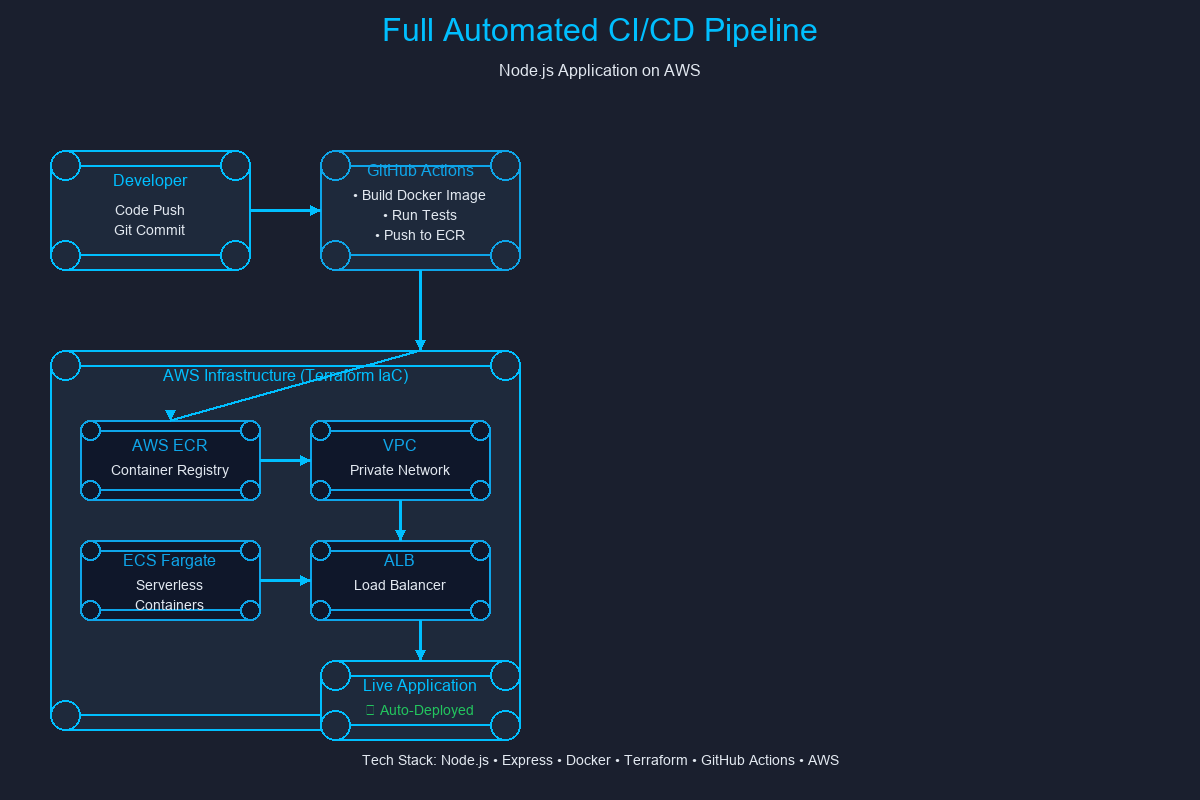
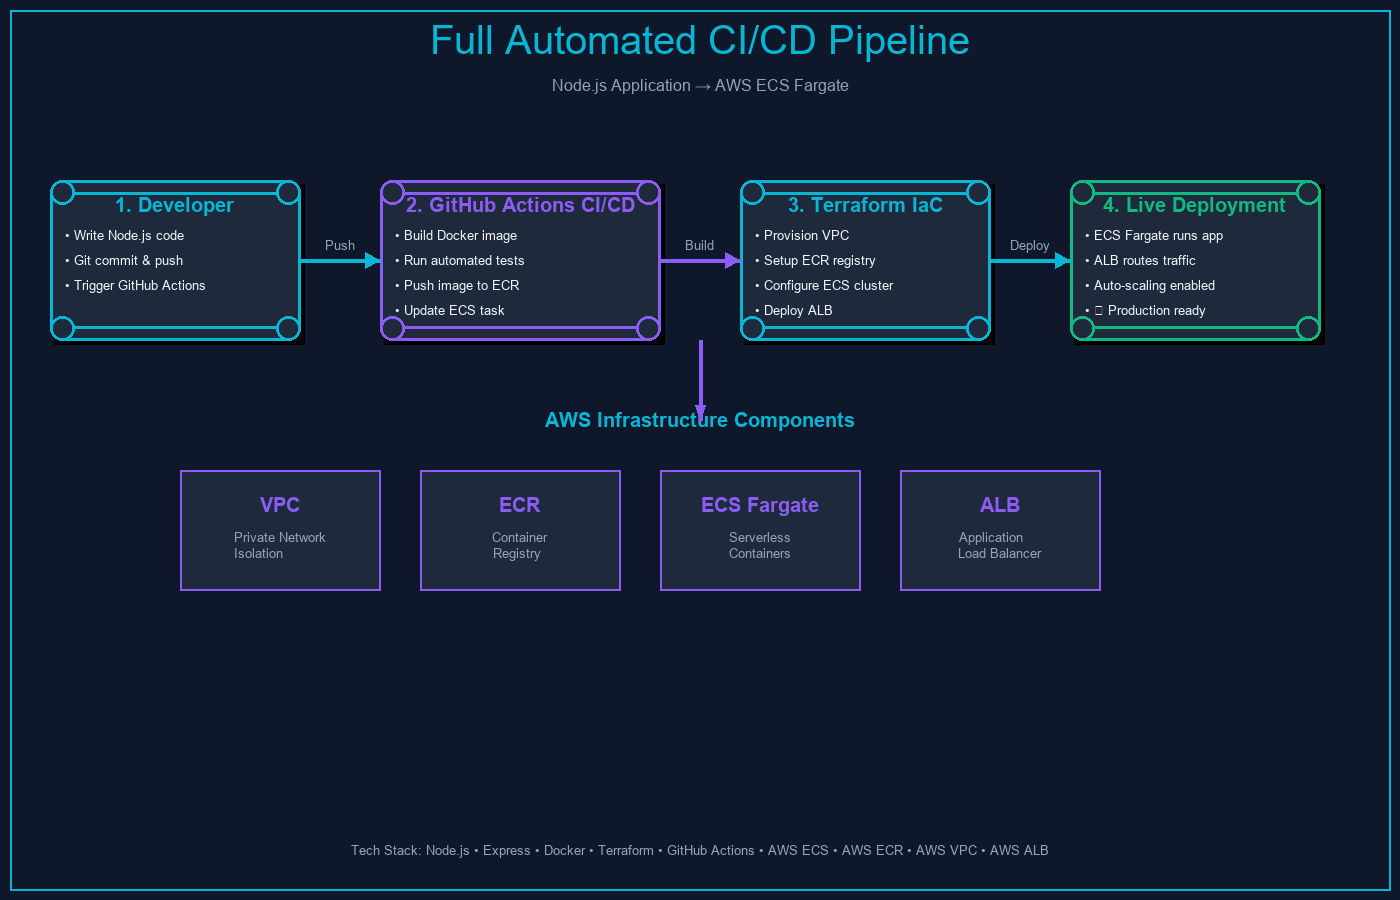
Redesign CI/CD workflow diagram with professional layout and enhanced visuals

diff --git a/generate_cicd_diagram.py b/generate_cicd_diagram.py
@@ -1,108 +1,138 @@
 from PIL import Image, ImageDraw, ImageFont
 import os
 
-# Create image
-width, height = 1200, 800
-img = Image.new('RGB', (width, height), color='#1a1f2e')
+# Create image with better dimensions for workflow
+width, height = 1400, 900
+img = Image.new('RGB', (width, height), color='#0f172a')
 draw = ImageDraw.Draw(img)
 
-# Colors
-bg_dark = '#1a1f2e'
-primary = '#00bfff'
-secondary = '#1e293b'
-text_color = '#e2e8f0'
-accent = '#0ea5e9'
+# Modern color scheme
+bg_dark = '#0f172a'
+bg_card = '#1e293b'
+primary = '#06b6d4'
+accent = '#8b5cf6'
+success = '#10b981'
+text_color = '#f1f5f9'
+text_muted = '#94a3b8'
 
-# Draw title
+# Load fonts
 try:
-    title_font = ImageFont.truetype("arial.ttf", 32)
+    title_font = ImageFont.truetype("arial.ttf", 40)
+    heading_font = ImageFont.truetype("arialbd.ttf", 20)
     text_font = ImageFont.truetype("arial.ttf", 16)
-    small_font = ImageFont.truetype("arial.ttf", 14)
+    small_font = ImageFont.truetype("arial.ttf", 13)
 except:
     title_font = ImageFont.load_default()
+    heading_font = ImageFont.load_default()
     text_font = ImageFont.load_default()
     small_font = ImageFont.load_default()
 
-# Title
-draw.text((600, 30), "Full Automated CI/CD Pipeline", fill=primary, font=title_font, anchor="mm")
-draw.text((600, 70), "Node.js Application on AWS", fill=text_color, font=text_font, anchor="mm")
+# Title with gradient effect
+draw.text((700, 40), "Full Automated CI/CD Pipeline", fill=primary, font=title_font, anchor="mm")
+draw.text((700, 85), "Node.js Application → AWS ECS Fargate", fill=text_muted, font=text_font, anchor="mm")
 
-# Draw boxes with labels
-def draw_rounded_rect(x, y, w, h, r, fill, outline):
-    draw.rectangle([x+r, y, x+w-r, y+h], fill=fill, outline=outline, width=2)
-    draw.rectangle([x, y+r, x+w, y+h-r], fill=fill, outline=outline, width=2)
-    draw.ellipse([x, y, x+2*r, y+2*r], fill=fill, outline=outline, width=2)
-    draw.ellipse([x+w-2*r, y, x+w, y+2*r], fill=fill, outline=outline, width=2)
-    draw.ellipse([x, y+h-2*r, x+2*r, y+h], fill=fill, outline=outline, width=2)
-    draw.ellipse([x+w-2*r, y+h-2*r, x+w, y+h], fill=fill, outline=outline, width=2)
+# Enhanced rounded rectangle with shadow
+def draw_card(x, y, w, h, r, fill, outline, title, items=None):
+    # Shadow effect
+    shadow_offset = 4
+    draw.rectangle([x+shadow_offset, y+shadow_offset, x+w+shadow_offset, y+h+shadow_offset], 
+                   fill='#00000050')
+    
+    # Main card
+    draw.rectangle([x+r, y, x+w-r, y+h], fill=fill, outline=outline, width=3)
+    draw.rectangle([x, y+r, x+w, y+h-r], fill=fill, outline=outline, width=3)
+    draw.ellipse([x, y, x+2*r, y+2*r], fill=fill, outline=outline, width=3)
+    draw.ellipse([x+w-2*r, y, x+w, y+2*r], fill=fill, outline=outline, width=3)
+    draw.ellipse([x, y+h-2*r, x+2*r, y+h], fill=fill, outline=outline, width=3)
+    draw.ellipse([x+w-2*r, y+h-2*r, x+w, y+h], fill=fill, outline=outline, width=3)
+    
+    # Title
+    draw.text((x+w//2, y+25), title, fill=outline, font=heading_font, anchor="mm")
+    
+    # Items
+    if items:
+        y_offset = y + 55
+        for item in items:
+            draw.text((x+15, y_offset), f"• {item}", fill=text_color, font=small_font, anchor="lm")
+            y_offset += 25
 
-# Stage 1: Developer
-draw_rounded_rect(50, 150, 200, 120, 15, secondary, primary)
-draw.text((150, 180), "Developer", fill=primary, font=text_font, anchor="mm")
-draw.text((150, 210), "Code Push", fill=text_color, font=small_font, anchor="mm")
-draw.text((150, 230), "Git Commit", fill=text_color, font=small_font, anchor="mm")
+# Workflow stages - horizontal flow
+stage_y = 180
 
-# Stage 2: GitHub Actions
-draw_rounded_rect(320, 150, 200, 120, 15, secondary, accent)
-draw.text((420, 170), "GitHub Actions", fill=accent, font=text_font, anchor="mm")
-draw.text((420, 195), "• Build Docker Image", fill=text_color, font=small_font, anchor="mm")
-draw.text((420, 215), "• Run Tests", fill=text_color, font=small_font, anchor="mm")
-draw.text((420, 235), "• Push to ECR", fill=text_color, font=small_font, anchor="mm")
+# Stage 1: Code & Commit
+draw_card(50, stage_y, 250, 160, 12, bg_card, primary, "1. Developer",
+          ["Write Node.js code", "Git commit & push", "Trigger GitHub Actions"])
+
+# Stage 2: Build & Test
+draw_card(380, stage_y, 280, 160, 12, bg_card, accent, "2. GitHub Actions CI/CD",
+          ["Build Docker image", "Run automated tests", "Push image to ECR", "Update ECS task"])
 
 # Stage 3: AWS Infrastructure
-draw_rounded_rect(50, 350, 470, 380, 15, secondary, primary)
-draw.text((285, 375), "AWS Infrastructure (Terraform IaC)", fill=primary, font=text_font, anchor="mm")
-
-# ECR
-draw_rounded_rect(80, 420, 180, 80, 10, '#0f172a', accent)
-draw.text((170, 445), "AWS ECR", fill=accent, font=text_font, anchor="mm")
-draw.text((170, 470), "Container Registry", fill=text_color, font=small_font, anchor="mm")
-
-# VPC
-draw_rounded_rect(310, 420, 180, 80, 10, '#0f172a', accent)
-draw.text((400, 445), "VPC", fill=accent, font=text_font, anchor="mm")
-draw.text((400, 470), "Private Network", fill=text_color, font=small_font, anchor="mm")
-
-# ECS Fargate
-draw_rounded_rect(80, 540, 180, 80, 10, '#0f172a', accent)
-draw.text((170, 560), "ECS Fargate", fill=accent, font=text_font, anchor="mm")
-draw.text((170, 585), "Serverless", fill=text_color, font=small_font, anchor="mm")
-draw.text((170, 605), "Containers", fill=text_color, font=small_font, anchor="mm")
-
-# ALB
-draw_rounded_rect(310, 540, 180, 80, 10, '#0f172a', accent)
-draw.text((400, 560), "ALB", fill=accent, font=text_font, anchor="mm")
-draw.text((400, 585), "Load Balancer", fill=text_color, font=small_font, anchor="mm")
+draw_card(740, stage_y, 250, 160, 12, bg_card, primary, "3. Terraform IaC",
+          ["Provision VPC", "Setup ECR registry", "Configure ECS cluster", "Deploy ALB"])
 
 # Stage 4: Deployment
-draw_rounded_rect(320, 660, 200, 80, 15, secondary, primary)
-draw.text((420, 685), "Live Application", fill=primary, font=text_font, anchor="mm")
-draw.text((420, 710), "✓ Auto-Deployed", fill='#22c55e', font=small_font, anchor="mm")
+draw_card(1070, stage_y, 250, 160, 12, bg_card, success, "4. Live Deployment",
+          ["ECS Fargate runs app", "ALB routes traffic", "Auto-scaling enabled", "✓ Production ready"])
 
-# Draw arrows
-def draw_arrow(x1, y1, x2, y2, color=primary):
-    draw.line([(x1, y1), (x2, y2)], fill=color, width=3)
+# AWS Services section
+aws_y = 420
+draw.text((700, aws_y), "AWS Infrastructure Components", fill=primary, font=heading_font, anchor="mm")
+
+# AWS service boxes - 2 rows
+services = [
+    ("VPC", "Private Network\nIsolation", 180, 470),
+    ("ECR", "Container\nRegistry", 420, 470),
+    ("ECS Fargate", "Serverless\nContainers", 660, 470),
+    ("ALB", "Application\nLoad Balancer", 900, 470),
+]
+
+for name, desc, x, y in services:
+    # Service box
+    draw.rectangle([x, y, x+200, y+120], fill='#1e293b', outline=accent, width=2)
+    draw.text((x+100, y+35), name, fill=accent, font=heading_font, anchor="mm")
+    draw.text((x+100, y+75), desc, fill=text_muted, font=small_font, anchor="mm")
+
+# Enhanced arrow with gradient effect
+def draw_workflow_arrow(x1, y1, x2, y2, color=primary, label=""):
+    # Main line
+    draw.line([(x1, y1), (x2, y2)], fill=color, width=4)
+    
     # Arrowhead
-    if x2 > x1:
-        draw.polygon([(x2, y2), (x2-10, y2-5), (x2-10, y2+5)], fill=color)
-    elif y2 > y1:
-        draw.polygon([(x2, y2), (x2-5, y2-10), (x2+5, y2-10)], fill=color)
+    arrow_size = 15
+    if x2 > x1:  # Right arrow
+        draw.polygon([(x2, y2), (x2-arrow_size, y2-8), (x2-arrow_size, y2+8)], fill=color)
+    
+    # Label
+    if label:
+        mid_x, mid_y = (x1 + x2) // 2, (y1 + y2) // 2 - 15
+        draw.text((mid_x, mid_y), label, fill=text_muted, font=small_font, anchor="mm")
 
-# Arrows connecting stages
-draw_arrow(250, 210, 320, 210)  # Developer to GitHub Actions
-draw_arrow(420, 270, 420, 350)  # GitHub Actions to AWS
-draw_arrow(420, 350, 170, 420)  # To ECR
-draw_arrow(260, 460, 310, 460)  # ECR to VPC
-draw_arrow(400, 500, 400, 540)  # VPC to ALB
-draw_arrow(260, 580, 310, 580)  # Fargate to ALB
-draw_arrow(420, 620, 420, 660)  # ALB to Deployment
+# Workflow arrows with labels
+draw_workflow_arrow(300, 260, 380, 260, primary, "Push")
+draw_workflow_arrow(660, 260, 740, 260, accent, "Build")
+draw_workflow_arrow(990, 260, 1070, 260, primary, "Deploy")
 
-# Tech stack labels at bottom
-draw.text((600, 760), "Tech Stack: Node.js • Express • Docker • Terraform • GitHub Actions • AWS", 
-          fill=text_color, font=small_font, anchor="mm")
+# Connection from workflow to AWS services
+draw.line([(700, 340), (700, 420)], fill=accent, width=4)
+draw.polygon([(700, 420), (695, 405), (705, 405)], fill=accent)
+
+# Tech stack footer
+footer_y = 850
+tech_items = [
+    "Node.js", "Express", "Docker", "Terraform", 
+    "GitHub Actions", "AWS ECS", "AWS ECR", "AWS VPC", "AWS ALB"
+]
+tech_text = " • ".join(tech_items)
+draw.text((700, footer_y), f"Tech Stack: {tech_text}", 
+          fill=text_muted, font=small_font, anchor="mm")
+
+# Border frame
+draw.rectangle([10, 10, width-10, height-10], outline=primary, width=2)
 
 # Save
 output_path = os.path.join('public', 'projects', 'nodejs-cicd-pipeline.png')
 os.makedirs(os.path.dirname(output_path), exist_ok=True)
-img.save(output_path)
-print(f"✓ Diagram saved to: {output_path}")
+img.save(output_path, quality=95)
+print(f"✓ Enhanced CI/CD workflow diagram saved to: {output_path}")
+
